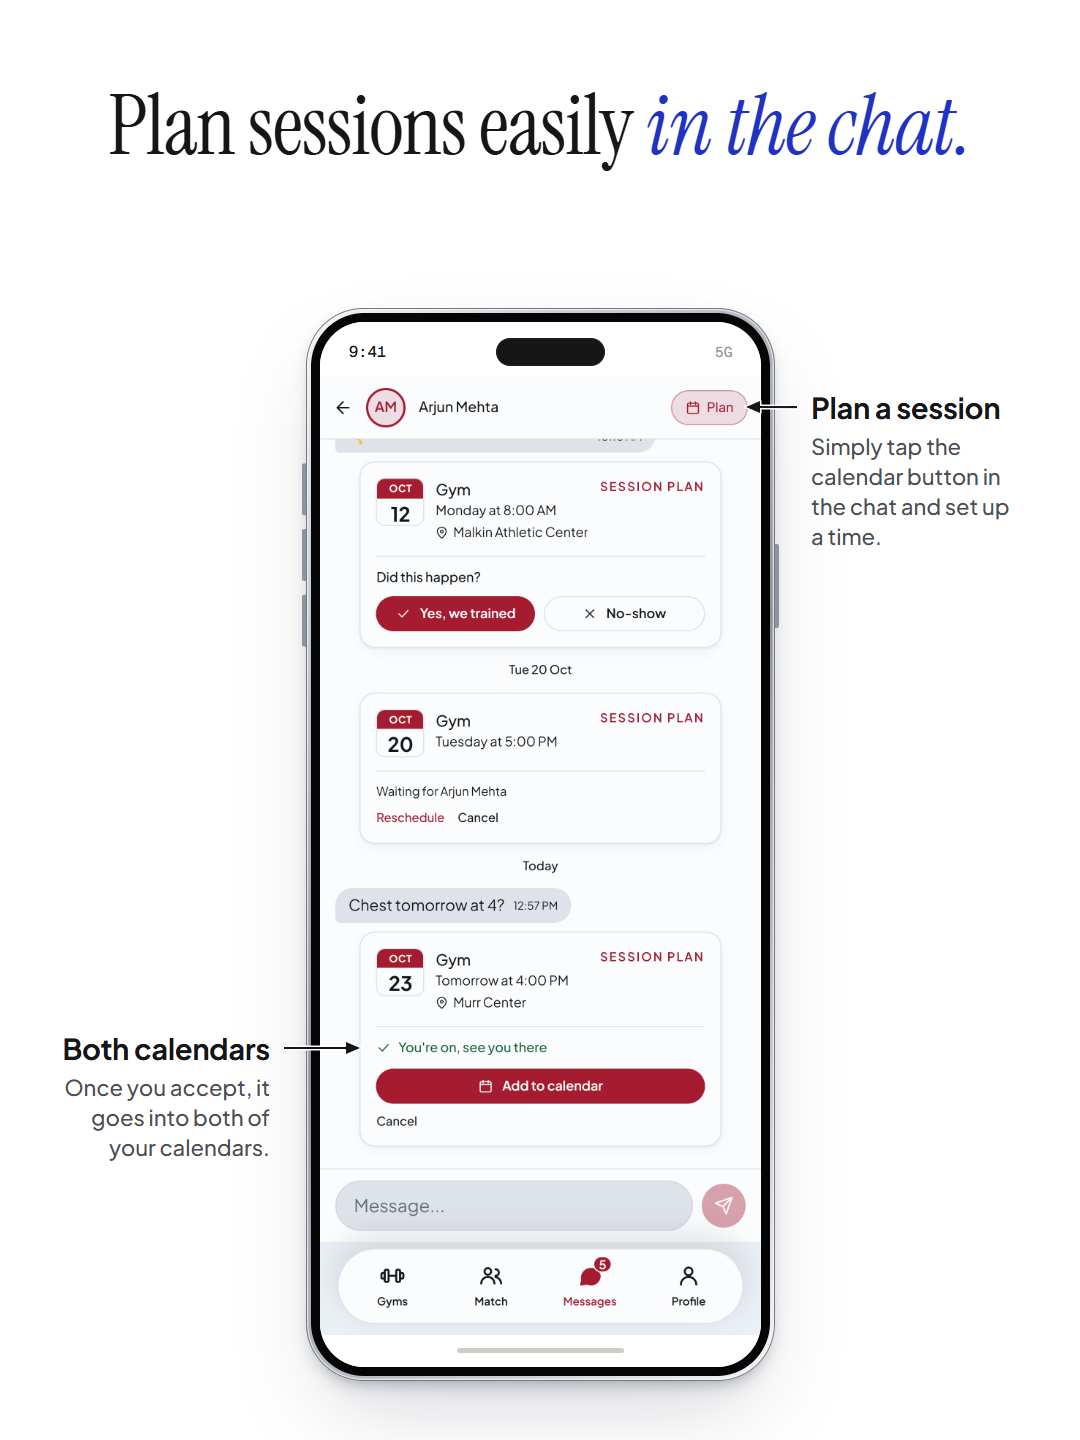
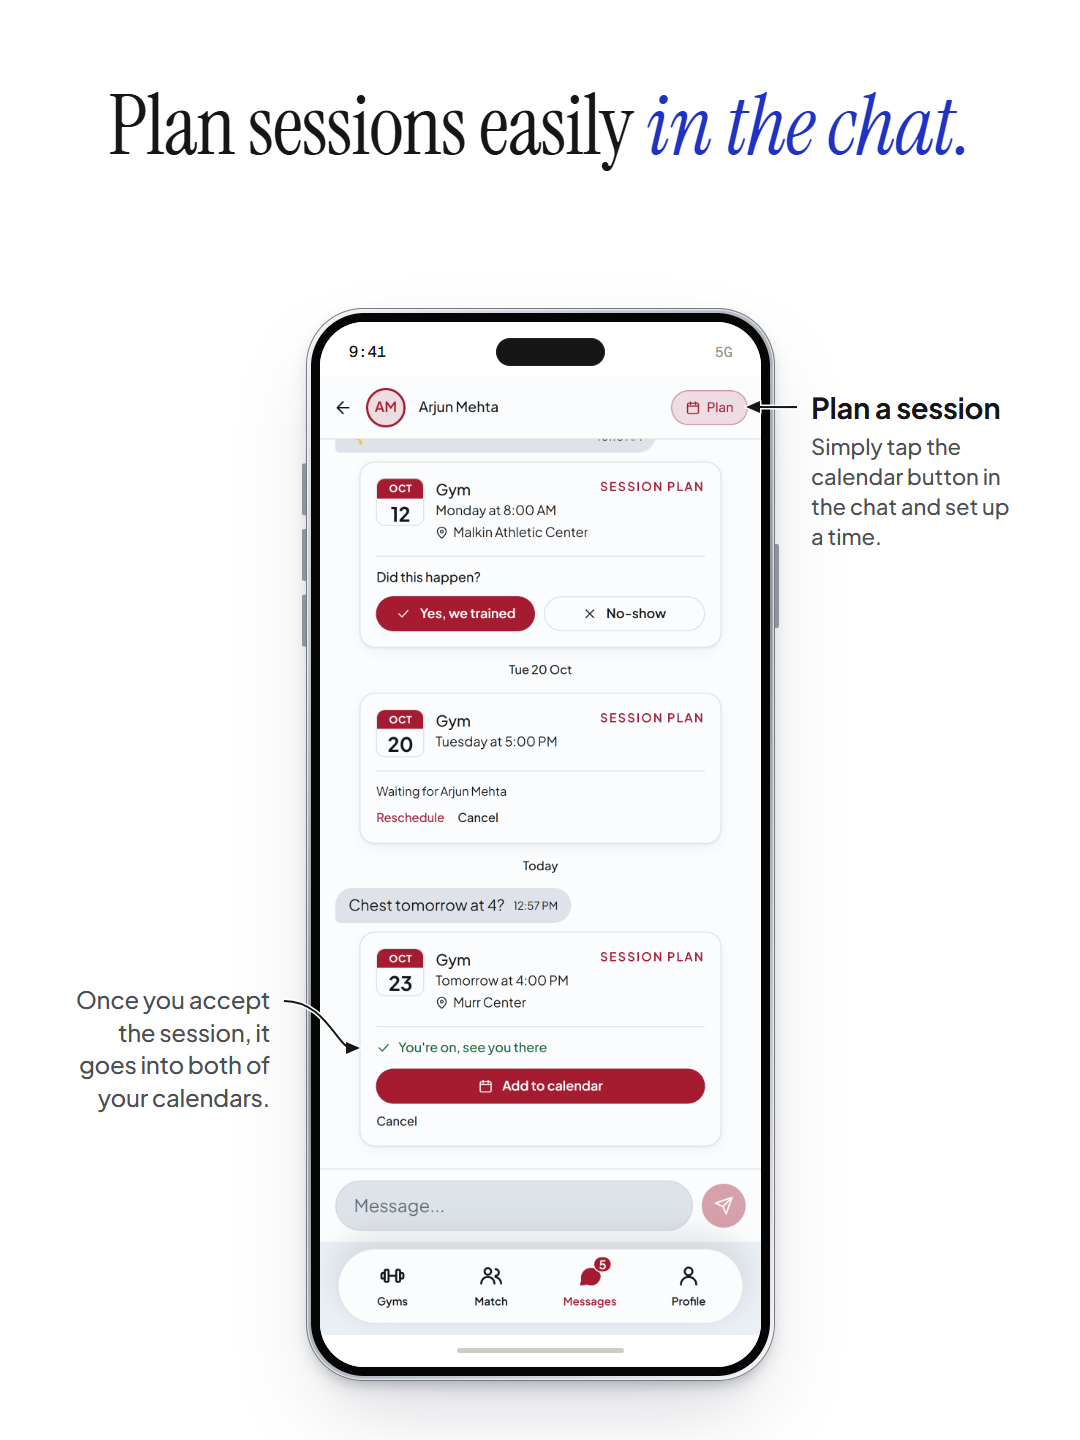
social: the Match post in the owner's own words
Owner: "find people. find new people based on interest, concentration,
training times ... get help from a more experienced student about
lifting, or advising about your concentration from an upperclassman",
"for Send a message, just right there, set up a session together easily
in the chat", "for Find by time, search for a specific time when you
want to train and see who goes at that time", "for the first card, also
do a filter", "don't name it Both Calendars. Just write there once you
accept the session, it goes into both your calendars".

Match post slide 1: Filter people on the Filters button (the empty top
left), Find people on the shared interests, the new mentor line. Slide 2:
Send a message's new line. Slide 3: Find by time's new line. Slide 4: the
calendars sentence alone, no name over it. The launch carousel shares the
chat slide and the Browse and mentor lines, so it changed with it.
NO-SLOP 27 has the rules.

Changed region(s): [[0.0611, 0.6875, 0.275, 0.8125]]

diff --git a/NO-SLOP.md b/NO-SLOP.md
@@ -166,7 +166,8 @@ own words, the date. Newest at the bottom of each part.
     with an arrow on that slide, never a slide of its own. (2026-10-22: "cut 3 and jsut
     describe calendar on second image with arrow".)
     A feature slide labels every feature on it worth knowing, not just one (the Sessions slide:
-    the post button, Filters, Search by time, Accept), and the screen shows what a label says: "goes into
+    the post button, Filters, Search by time, Accept; the Match slide: Filters too, 2026-10-23:
+    "for the first card, also do a filter"), and the screen shows what a label says: "goes into
     both of your calendars" points at a plan just accepted, never one still waiting.
     (2026-10-22: "put all the features you think are worth doing", "show something when you
     just accepted from other guy and say it goes to both of your calendars".)
@@ -178,6 +179,12 @@ own words, the date. Newest at the bottom of each part.
     shares with you. (2026-10-22: "match do it on left adn pointing to intersts etc and on the
     right name it differently and in second dont name it message its obvious", then "actually
     name is close as it is jsut add verb there this is bad so back as it was".)
+    On the Match slide the name is "Find people" now, the owner's own (2026-10-23). A label
+    whose sentence says it all has no name over it: the plan just accepted is "Once you accept
+    the session, it goes into both of your calendars.", alone, never under "Both calendars".
+    The lines are the owner's dictated words when he gives them, with only the grammar fixed.
+    (2026-10-23: "don't name it 'Both Calendars.' Just write there once [you accept] the
+    session, it goes into both your calendars".)
 28. **Video sound is soft**: instrumental songs only, no aggressive sound effects, none at all
     except the connecting moment. Real downloaded sounds, never synthesised. No speed changes.
     (2026-09-22: "dont want the sounds to be aggressive rather … smooth"; 2026-09-27: "skip all

diff --git a/SOCIAL.md b/SOCIAL.md
@@ -465,12 +465,14 @@ log workouts to earn points and memories. and then the leaderboards"):
 
 | Post | Slides | Where |
 |---|---|---|
-| Match, 5 | Match list (Match on the shared interests, "Browse people or post your session." on the switch, Find a mentor), a profile (See why you match, Compare calendars, Send a message), Sessions (Post a session, Filter the sessions, Find by time, Accept), the chat ending on a plan from Arjun you just accepted (Plan a session, Both calendars), the waitlist | `mockups/social/post-match/` |
+| Match, 5 | Match list (Filter people, Find people on the shared interests, "Browse people or post your session." on the switch, Find a mentor), a profile (See why you match, Compare calendars, Send a message), Sessions (Post a session, Filter the sessions, Find by time, Accept), the chat ending on a plan from Arjun you just accepted (Plan a session, and "Once you accept the session, it goes into both of your calendars." alone), the waitlist | `mockups/social/post-match/` |
 | Profile, 4 | Profile (Log a session, Calendar, Build memories), the Log sheet (Add an exercise, Log your workouts, Add a photo), Leaderboards (Score points, Pick the competition), the waitlist | `mockups/social/post-profile/` |
 
 Labels keep the feature's own name with a verb where it reads more naturally (owner,
 2026-10-22: "name is close as it is jsut add verb there"); the launch carousel's got the
-same verbs.
+same verbs. On 2026-10-23 the owner dictated the Match post's lines himself (Find people, the
+mentors, Send a message, Find by time, the calendars sentence, a Filters label); the launch
+carousel's Browse and Find a mentor share the new lines.
 
 Both come from `node scripts/social/launch-carousel.mjs post-match` / `post-profile`. Lines
 are the website's, or the app walk's captions (`lib/tour.ts`) where the site has none.
